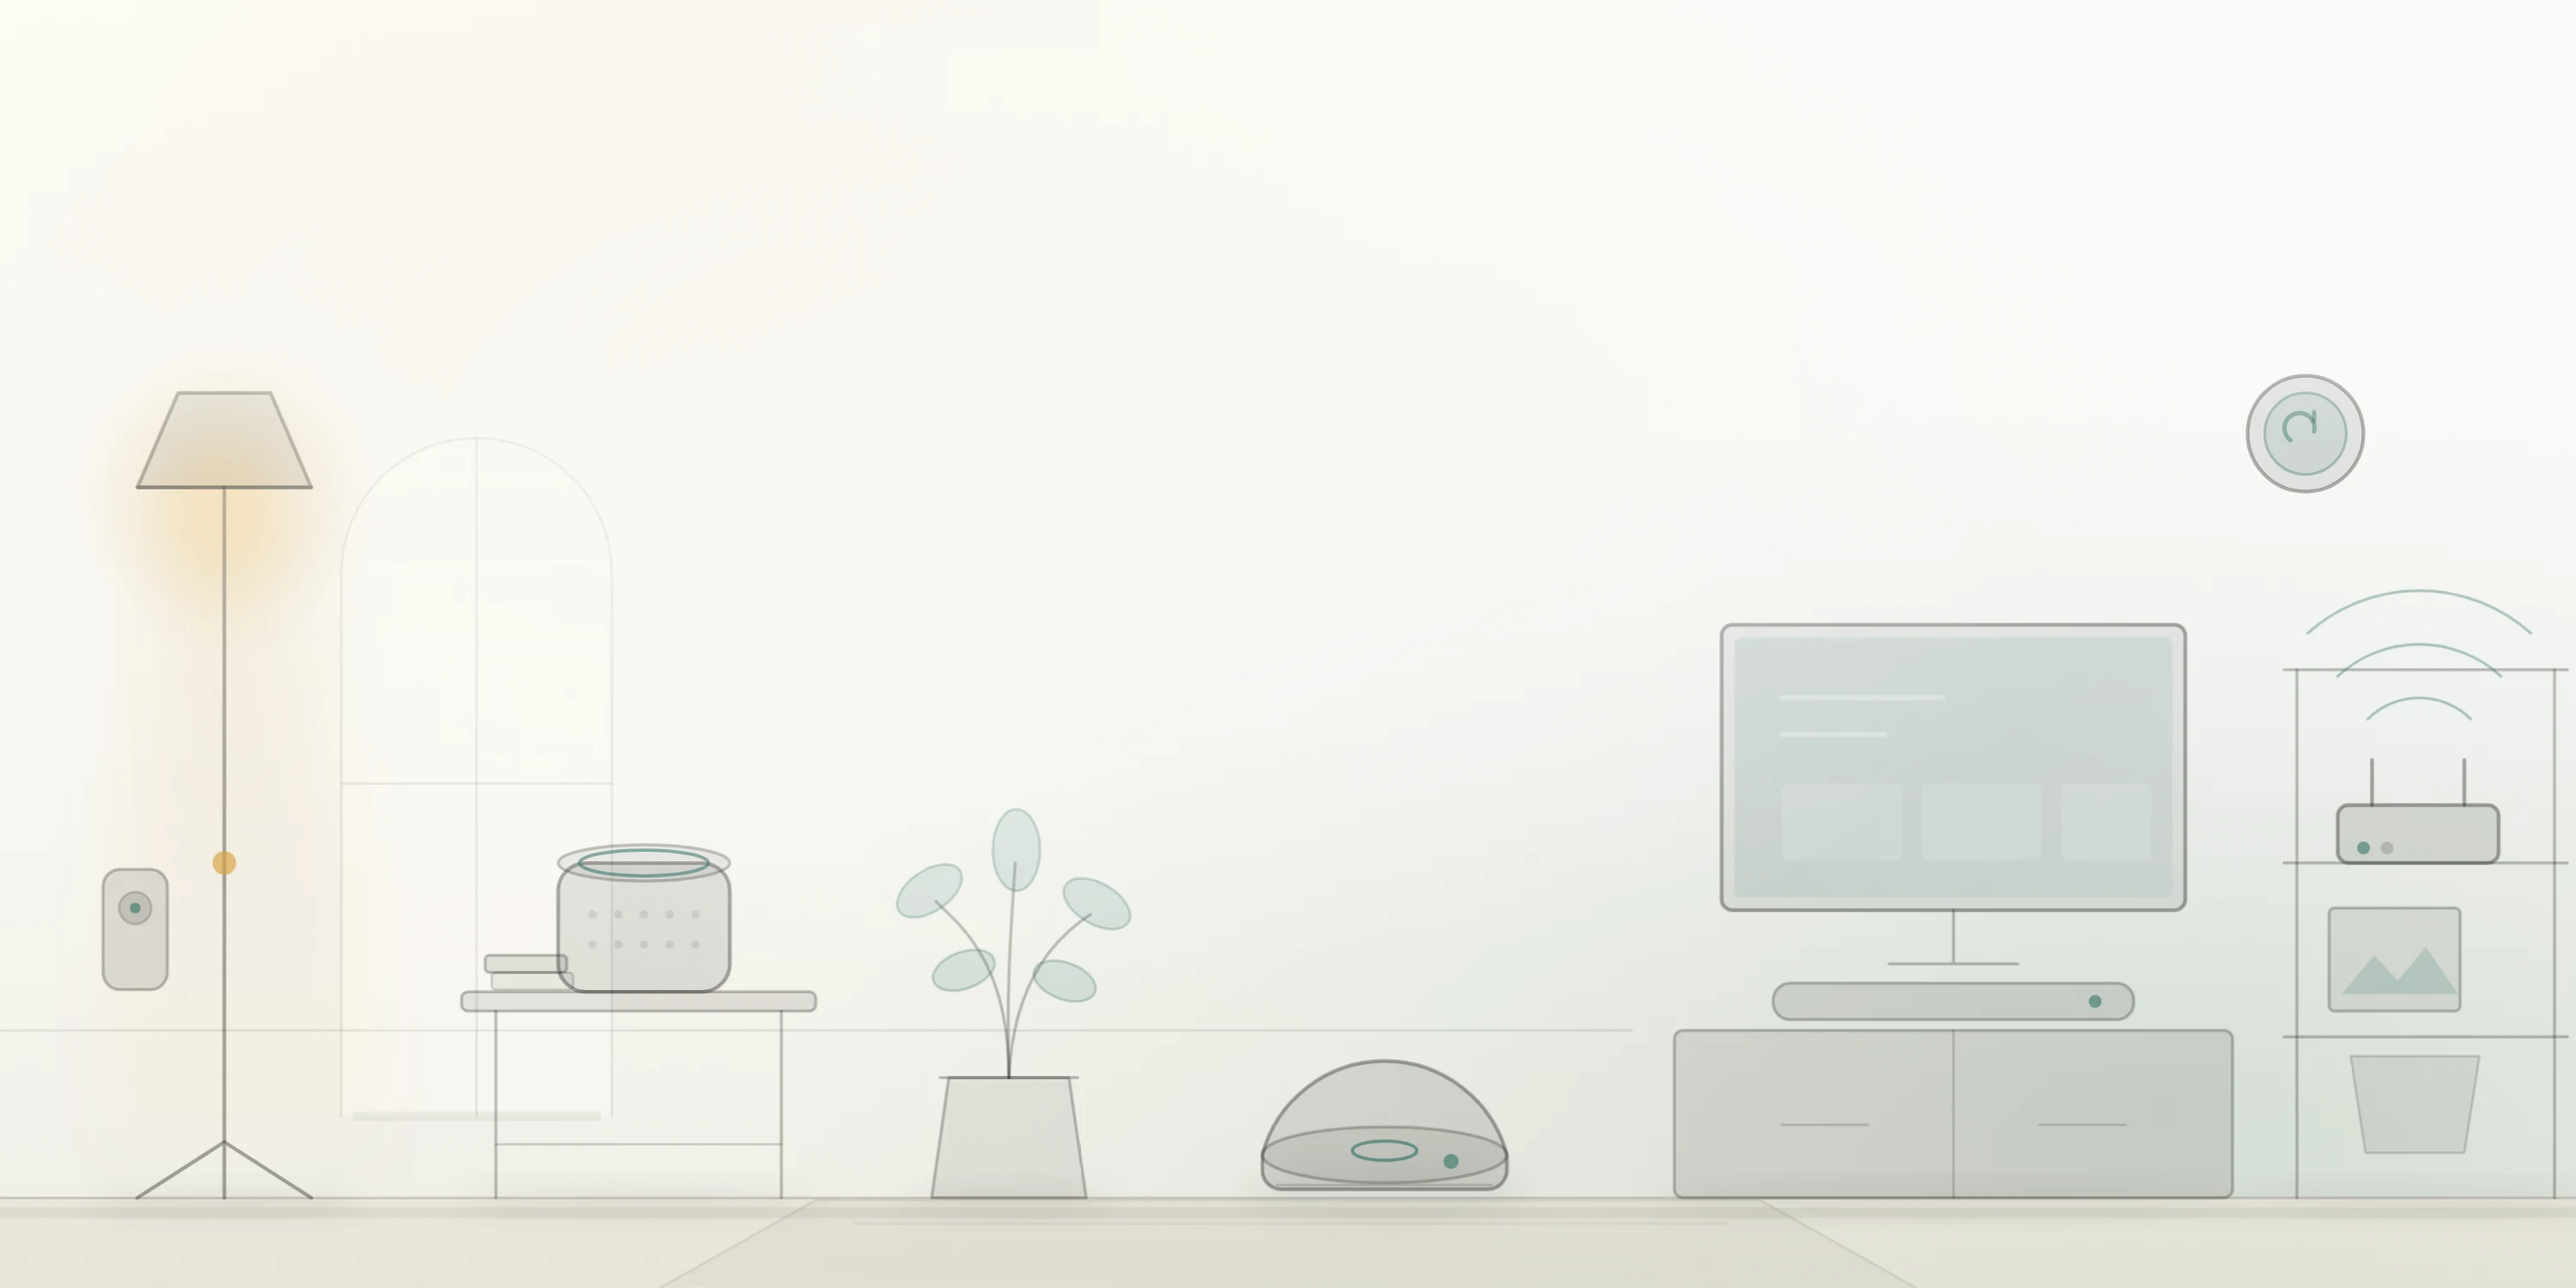
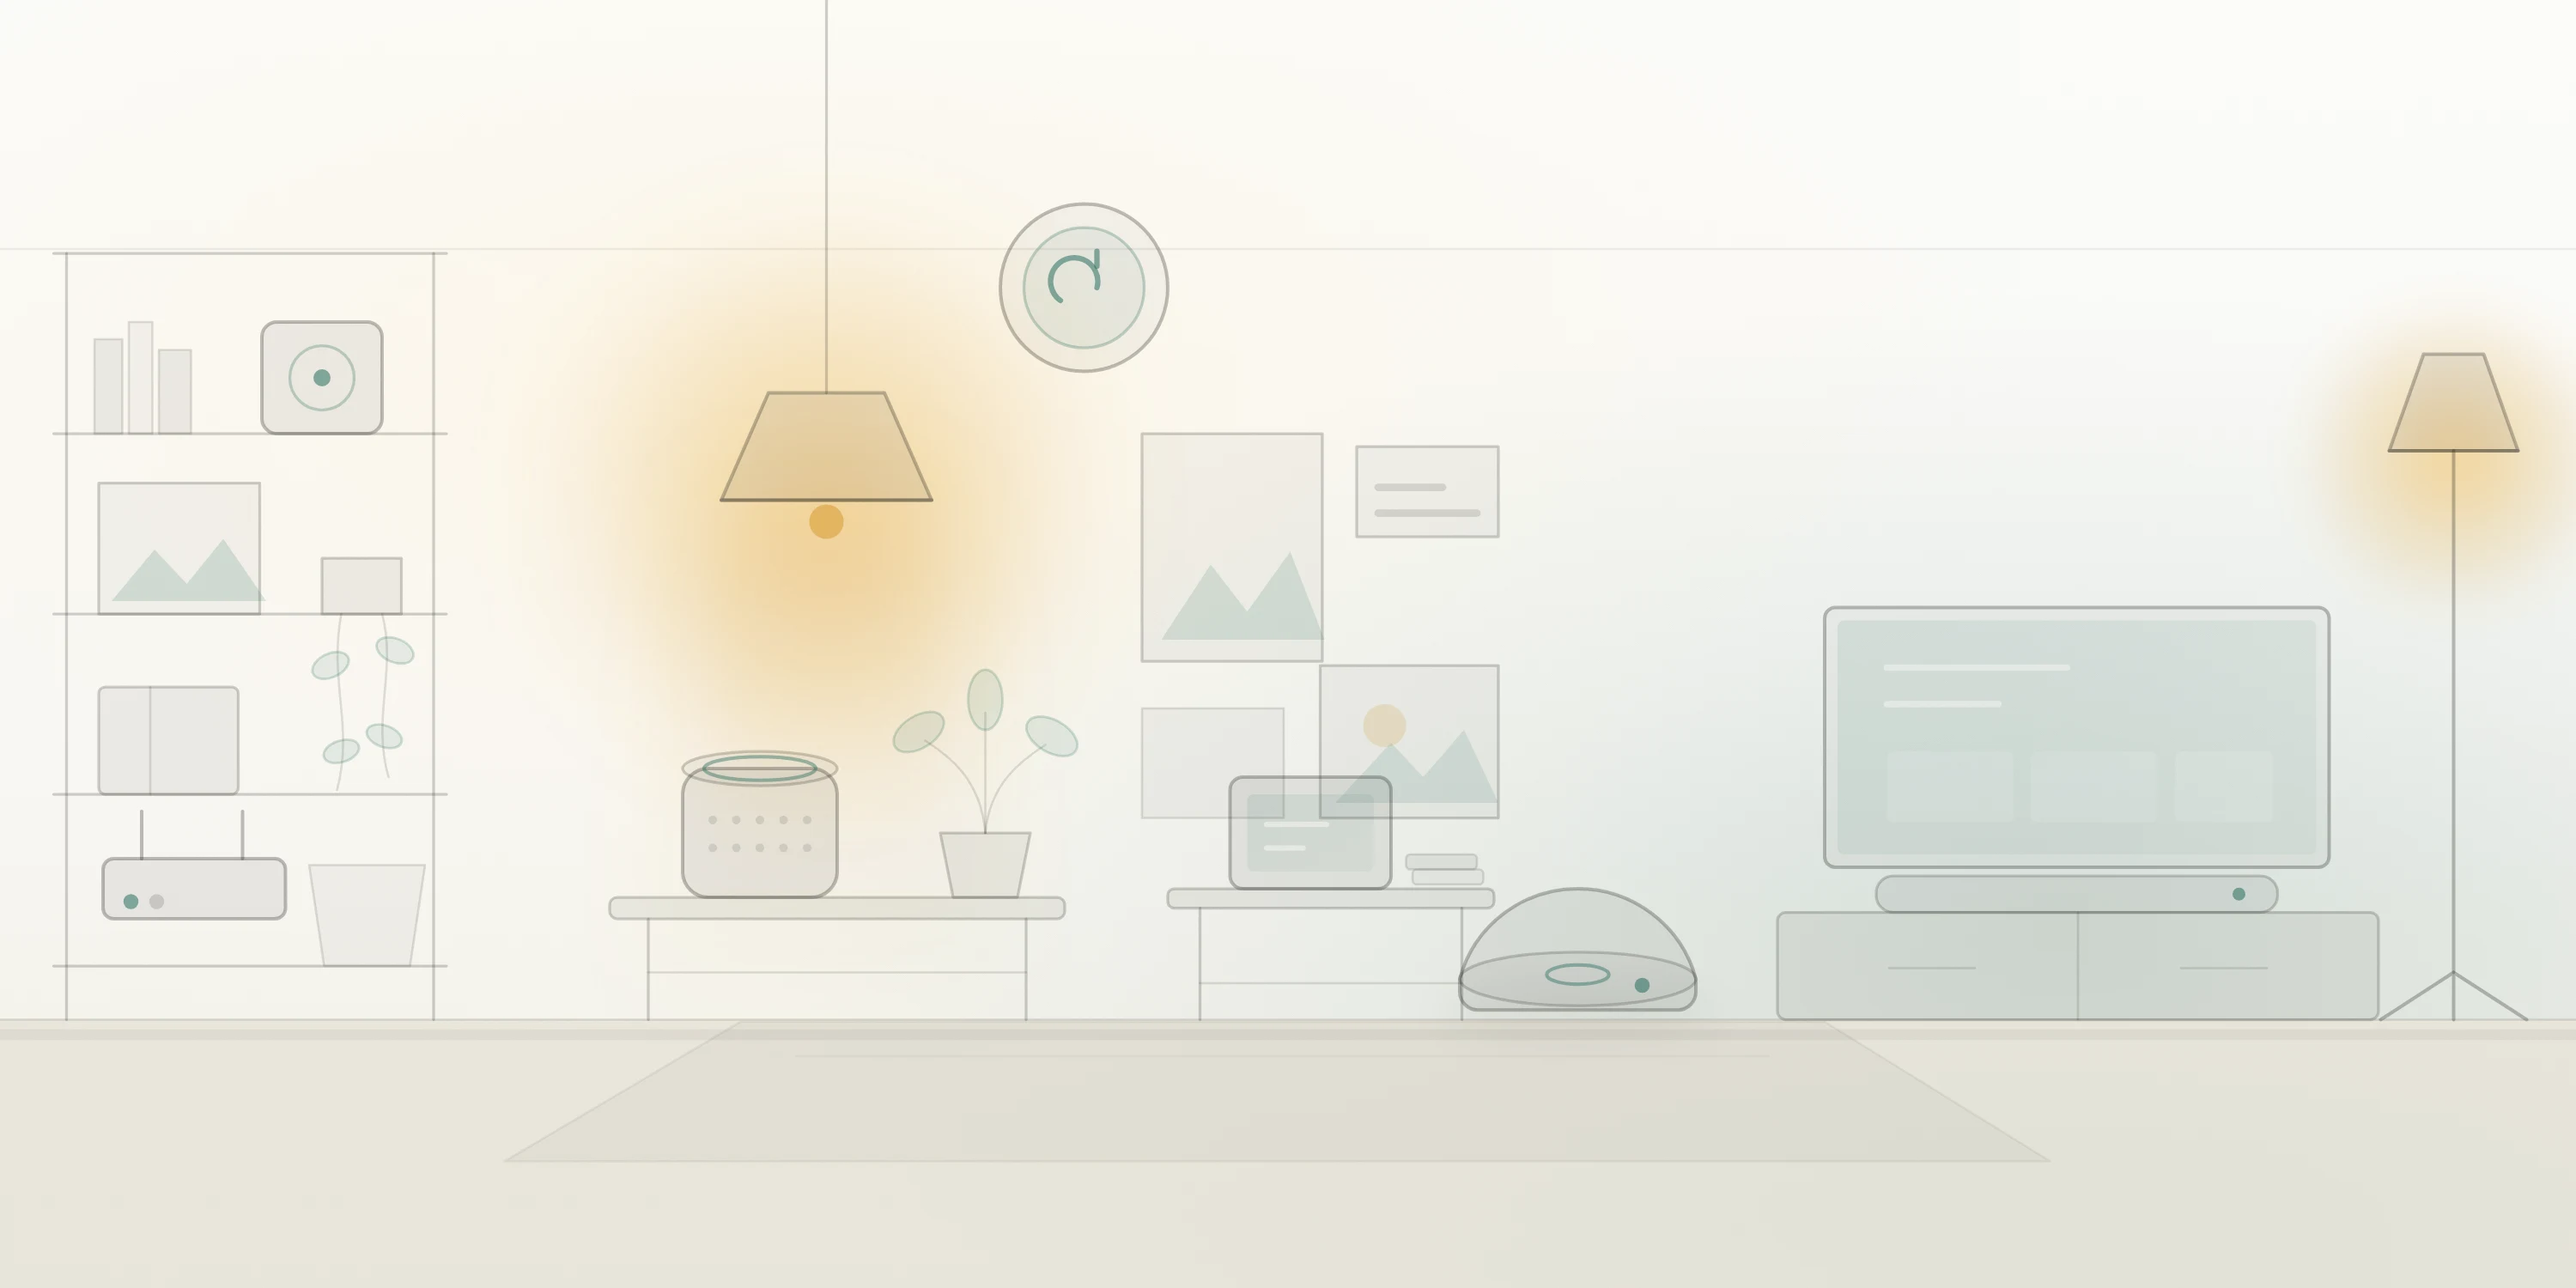
Que el fondo del hero se note más
Germán pedía que la ilustración cubriera la zona del texto principal, que
se veía muy vacía. La escena se redibuja entera: estantería alta a la
izquierda, lámpara colgante con su luz, consola con altavoz, galería de
cuadros, termostato y mesita con pantalla, además del televisor y el
aparador que ya estaban. Sube del 50 % al 85 % de opacidad.

Cada trazo es más claro que antes: se nota por cobertura, no por
oscuridad, que es lo que dejaba sin contraste al texto pequeño.

El dibujo se concentra a la izquierda y en el centro, detrás del titular.
La columna derecha se deja casi vacía a propósito: el párrafo, los
botones y el «N productos analizados» son más pequeños y más claros, y un
trazo por detrás les come el contraste.

El corte de abajo pasa a ir en píxeles en vez de en porcentaje, porque la
balda empieza a la misma altura en todos los anchos de escritorio.

En móvil ya no se oculta: se amplía y se encuadra en la lámpara y la
consola.

Medido sobre los glifos a 430, 1440 y 1920 px, el peor contraste queda en
3,27:1 (era 3,42:1 sobre papel limpio); el titular en 7:1 y el párrafo en
5,6:1.

Claude-Session: https://claude.ai/code/session_01R4Fy3VuCWHKWhZp1CPdmhs

diff --git a/src/components/Hero.module.css b/src/components/Hero.module.css
@@ -7,11 +7,16 @@
 }
 
 /* Ilustración de fondo del titular: un salón con los aparatos que analizamos,
-   en la misma tinta y el mismo verde que el resto del sitio. Va tan tenue a
-   propósito, porque el titular cae encima: es textura de papel, no una
-   fotografía de archivo con un velo oscuro. La altura sale de la proporción
-   de la imagen (2:1), así que a ancho completo mide justo media pantalla y
-   no hace falta recortarla. */
+   en la misma tinta y el mismo verde que el resto del sitio. Es textura de
+   papel, no una fotografía de archivo con un velo oscuro. La altura sale de la
+   proporción de la imagen (2:1), así que a ancho completo mide justo media
+   pantalla y se pinta entera, sin recortes, en cualquier tamaño.
+
+   El dibujo se concentra a la izquierda y en el centro, detrás del titular,
+   que es texto grande y oscuro y aguanta cualquier cosa por debajo. La columna
+   derecha (párrafo, botones y el «N productos analizados») se deja casi vacía
+   a propósito: ese texto es más pequeño y más claro, y un trazo por detrás le
+   come el contraste. */
 .hero::before {
   content: '';
   position: absolute;
@@ -20,11 +25,13 @@
   right: 0;
   height: 50vw;
   background: url('/hero/fondo-home.webp') center top / 100% auto no-repeat;
-  opacity: 0.5;
-  /* Se disuelve antes del filete que separa el titular de la balda, para que
-     las tarjetas se apoyen siempre sobre papel limpio */
-  -webkit-mask-image: linear-gradient(to bottom, #000 0 46%, transparent 84%);
-  mask-image: linear-gradient(to bottom, #000 0 46%, transparent 84%);
+  opacity: 0.85;
+  /* El corte va en píxeles, no en porcentaje: la balda empieza más o menos a la
+     misma altura en todos los anchos de escritorio, mientras que un porcentaje
+     de `50vw` se movería con la pantalla y dejaría el dibujo por debajo del
+     filete. Así las tarjetas y el índice se apoyan siempre en papel limpio. */
+  -webkit-mask-image: linear-gradient(to bottom, #000 0 250px, transparent 400px);
+  mask-image: linear-gradient(to bottom, #000 0 250px, transparent 400px);
   pointer-events: none;
   z-index: 0;
 }
@@ -401,10 +408,16 @@
 }
 
 @media (max-width: 900px) {
-  /* Con una sola columna el hero es alto y estrecho: la escena apaisada no
-     cabe a un tamaño en el que se reconozca nada, así que ni se descarga. */
+  /* Con una sola columna el hero es alto y estrecho, así que la escena apaisada
+     no cabe entera: se amplía y se encuadra en la lámpara y la consola, que es
+     la parte que cae detrás del titular. */
   .hero::before {
-    background-image: none;
+    height: 132vw;
+    background-size: 280% auto;
+    background-position: 26% top;
+    opacity: 0.62;
+    -webkit-mask-image: linear-gradient(to bottom, #000 0 52%, transparent 88%);
+    mask-image: linear-gradient(to bottom, #000 0 52%, transparent 88%);
   }
 
   .lead {
